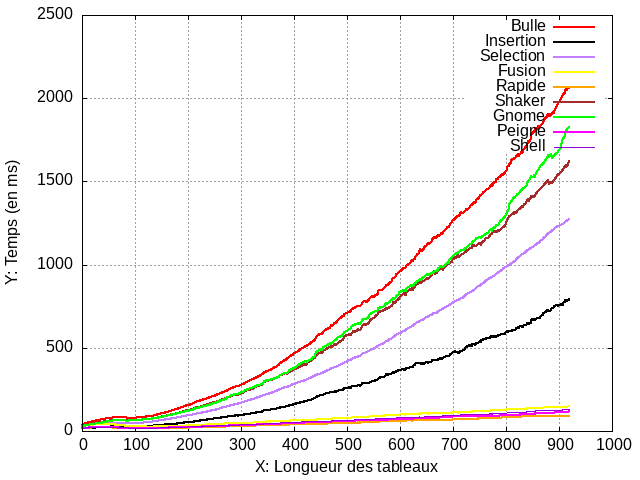
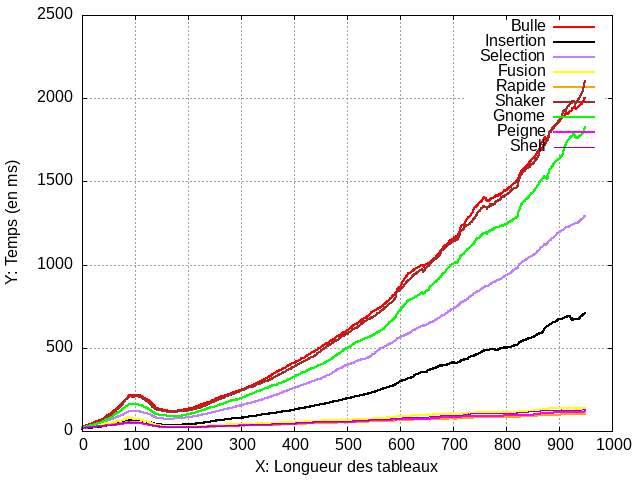
FINAL PROJECT v1.0

diff --git a/methodeTri.h b/methodeTri.h
@@ -40,12 +40,15 @@ void triSelection(int T[], int n)
     for (i = 0; i < n - 1; i++)
     {
         min = i;
-        for (j = i; j < n; j++)
+        for (j = i + 1; j < n; j++)
             if (T[j] < T[min])
                 min = j;
-        temp = T[i];
-        T[i] = T[min];
-        T[min] = temp;
+        if (min != i)
+        {
+            temp = T[i];
+            T[i] = T[min];
+            T[min] = temp;
+        }
     }
 }
 
@@ -89,7 +92,7 @@ void triRapide(int T[], int n)
         courant++;
     }
     triRapide(T, mur - 1);
-    triRapide(T + mur, n - mur);
+    triRapide(T + mur - 1, n - mur + 1);
 }
 
 void fusion(int *a, int n, int m)
@@ -122,41 +125,28 @@ void triFusion(int T[], int n)
 
 void triShaker(int T[], int n)
 {
-    int i, j, sens = 1;
-    int debut = 0, fin = n - 1;
     int permutation;
+    int en_cours = 0, sens = 1;
+    int debut = 1, fin = n - 1;
     do
     {
         permutation = 0;
+        while (((sens == 1) && (en_cours < fin)) || ((sens == -1) && (en_cours > debut)))
+        {
+            en_cours += sens;
+            if (T[en_cours] < T[en_cours - 1])
+            {
+                int temp = T[en_cours];
+                T[en_cours] = T[en_cours - 1];
+                T[en_cours - 1] = temp;
+                permutation = 1;
+            }
+        }
         if (sens == 1)
-        {
-            for (i = debut; i < fin; i++)
-            {
-                if (T[i] > T[i + 1])
-                {
-                    int temp = T[i];
-                    T[i] = T[i + 1];
-                    T[i + 1] = temp;
-                    permutation = 1;
-                }
-            }
             fin--;
-        }
         else
-        {
-            for (j = fin; j > debut; j--)
-            {
-                if (T[j] < T[j - 1])
-                {
-                    int temp = T[j];
-                    T[j] = T[j - 1];
-                    T[j - 1] = temp;
-                    permutation = 1;
-                }
-            }
             debut++;
-        }
-        sens = 1 - sens;
+        sens = -sens;
     } while (permutation);
 }
 
@@ -185,14 +175,14 @@ void triGnome(int T[], int n)
 void triPeigne(int T[], int n)
 {
     int gap = n;
-    bool permutation = true;
+    int permutation = 1;
 
     while (permutation || gap > 1)
     {
         gap = (gap * 10) / 13; // Réduction de l'écart
         if (gap < 1)
             gap = 1;
-        permutation = false;
+        permutation = 0;
 
         for (int en_cours = 0; en_cours < n - gap; en_cours++)
         {
@@ -201,7 +191,7 @@ void triPeigne(int T[], int n)
                 int temp = T[en_cours];
                 T[en_cours] = T[en_cours + gap];
                 T[en_cours + gap] = temp;
-                permutation = true;
+                permutation = 1;
             }
         }
     }

diff --git a/main.c b/main.c
@@ -4,7 +4,7 @@
 #include <string.h>
 #include "methodeTri.h"
 #define MAX 9999
-#define WINDOW_SIZE 80
+#define WINDOW_SIZE 100
 
 // Declaration des tableaus:
 double tableComplexiteBulle[MAX];
@@ -82,7 +82,7 @@ void moyennePonderee(const double *data, double *smoothed_data, int num_points, 
         sum = 0.0;
         int count = 0;
 
-        for (int j = i; j < i + window_size && i + window_size < num_points; j++)
+        for (int j = i; j < i + (window_size / 2) && i + (window_size / 2) < num_points; j++)
         {
             sum += data[j];
             count++;
